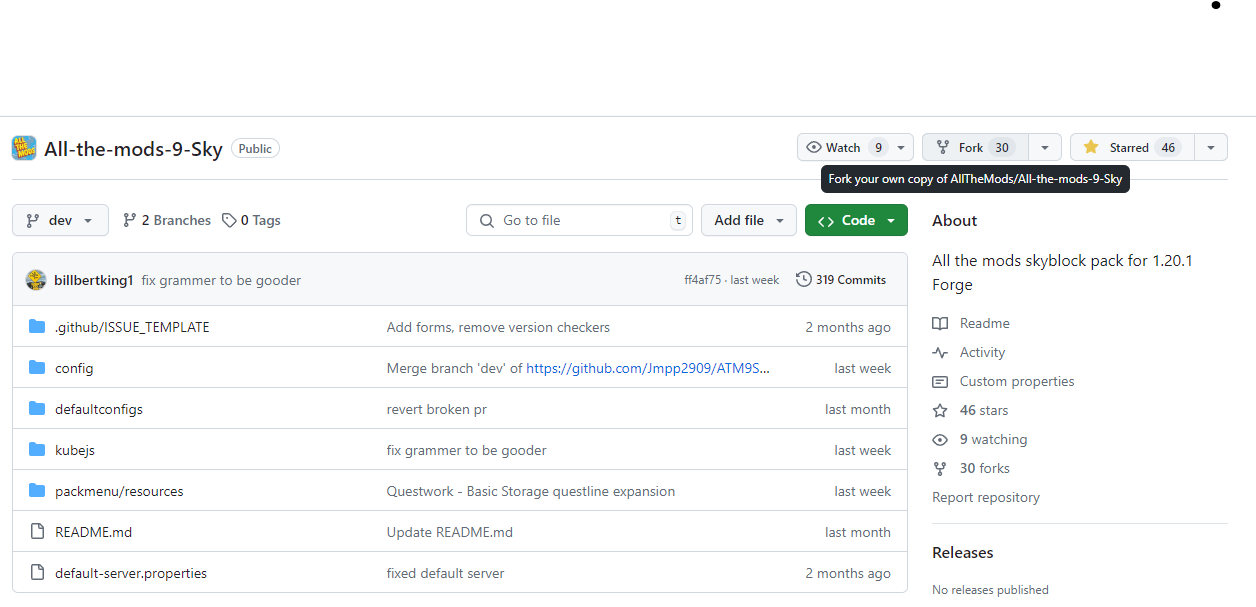
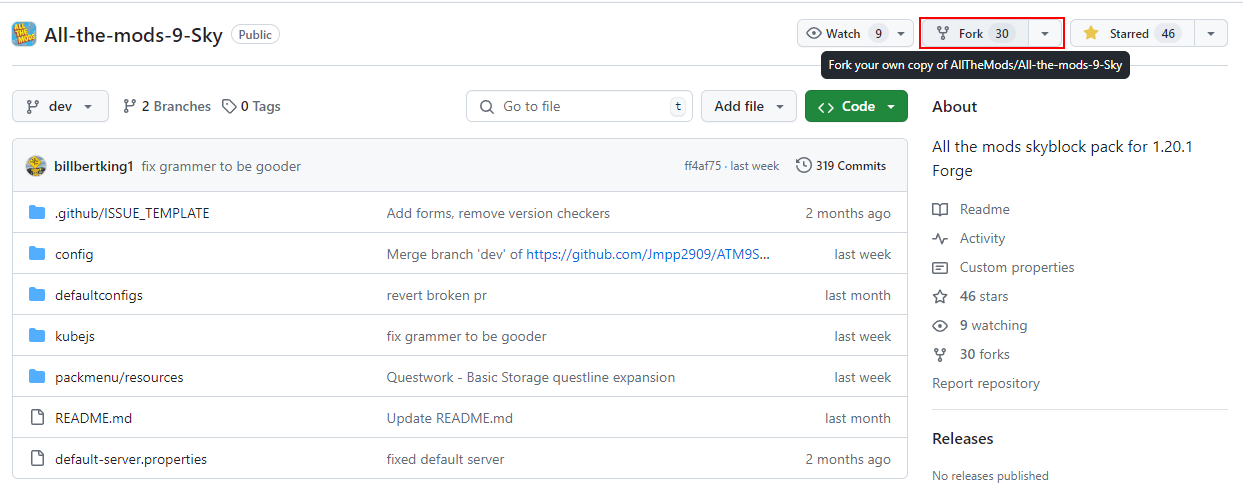
Update translation.md
- Added final images to translation guide
- Added list of translators
- Rewrote a few lines for clarity
- Removed GitCL instructions to clean the page up. Anyone using GitCL likely knows how to use it anyway

diff --git a/docs/guides/translations.md b/docs/guides/translations.md
@@ -6,6 +6,9 @@ authors:
 
 # All The Translations
 
+???+ warning "FTB Quests 1.21+"
+	Translating lang files and previewing them all while in-game is now possible. I may or may not adjust this page to include that method, as it would require rearranging this guide.
+
 ## Important!
 
 There is ***no*** set or forced timeline for translations. *Work on them at your own pace!* PR them however you want, either as whole chapters, sections of chapters, or even the whole thing if you want. **We are incredibly grateful for any contributions you make!**
@@ -15,7 +18,7 @@ Also, tell a staff member that you'd like to translate so they can give you acce
 ???+ warning "Important note for packs in development"
 	If you are translating a pack that is under ***active development***, then you need to use the lang file from the **`dev` branch**, not `main`. The `dev` branch will always contain the most up-to-date quest lang file that you will translate.
 
-???+ danger "Note regarding AI/Machine translations"
+???+ danger "Warning regarding AI/Machine translations"
 	We are **not** looking for AI/Machine translations.  We are looking for native speakers who are looking to put in the effort to make sure grammar is correct for readers of that language. We would've done it ourselves if we wanted a cheap attempt at quest translations.
 
 ---
@@ -38,14 +41,22 @@ This guide will take you in chronological order from forking a repo, to committi
 
 ### Fork the Repository
 
-Fork the modpack/mod you want to translate. 
+Fork the modpack/mod you want to translate. Make sure `Copy the main branch only` is checked.
 
+The links should take you directly to the `Create a new fork` page.
+
+<!--- Add/deprecate items on this list as future modpacks release --->
+
+- [ATM10 (Alpha)](https://github.com/AllTheMods/ATM-10/fork)
 - [ATM9/No Frills (NF's quests are the same as 9, just no Greg)](https://github.com/AllTheMods/ATM-9/fork)
 - [ATM9 to the Sky](https://github.com/AllTheMods/All-the-mods-9-Sky/fork)
 - [Gravitas 1](https://github.com/AllTheMods/tfc/fork)
 - [Gravitas 2](https://github.com/AllTheMods/Gravitas2/fork)
 
 [All The Mods GitHub](https://github.com/AllTheMods) for any modpack that isn't listed above.
+
+![Click "Fork" and then it'll take you the page in the 2nd image](img/translationFork1.png)
+![Remember to use the dev branch if you are translating a modpack under active development](img/translationFork2.png)
 
 ---
 
@@ -54,15 +65,14 @@ Fork the modpack/mod you want to translate.
 This will **Clone** your fork from GitHub onto your computer.
 
 ???+ information "GitHub Desktop"
-	Go to `File` -> `Clone repository...` OR do `Ctrl+Shift+o` and select your ATM Modpack fork.
+	Go to `File` -> `Clone repository...` OR `Ctrl+Shift+o`, select your ATM Modpack fork, the select `To contribute to the parent project`.
 
 	!!! info "I recommend putting the repository under `C:/Users/yourPCName` for easy access"
-
-??? information "Git CLI"
-	``` title="Change `USERNAME` to your GitHub name and `MODPACK` to the name of your fork"
-	git clone https://github.com/USERNAME/MODPACK
 	
-	```
+	![Click "File" then "Clone repository...".](img/translationCloneBranch1.png)
+	![Select the repo you just forked and set the location to want the repo to save to.](img/translationCloneBranch2.png)
+	![Select "To contribute to the parent project" and continue.](img/translationCloneBranch3.png)
+
 ---
 
 After cloning the repository go to where you cloned it on your computer and go to `packName/kubejs/assets/kubejs/lang` then copy and paste the `en_us.json` file into the same spot.
@@ -74,9 +84,9 @@ Rename the copied `en_us.json` to the language code of the lanuage you want to t
 ??? abstract "Language Codes (Ctrl+F to find language)"
 	| Code | Language |
 	|----- | -------- |
-	|af_ZA | Afrikaans (South Africa) | 
-	|ar_AE | Arabic (U.A.E.) | 
-	|ar_BH | Arabic (Bahrain) | 
+	| af_ZA | Afrikaans (South Africa) | 
+	| ar_AE | Arabic (U.A.E.) | 
+	| ar_BH | Arabic (Bahrain) | 
 	| ar_DZ | Arabic (Algeria) | 
 	| ar_EG | Arabic (Egypt) | 
 	| ar_IQ | Arabic (Iraq) | 
@@ -243,12 +253,15 @@ Instead of copying the entire repo onto your computer, you can also download onl
 
 Download the `en_us.json` lang file from the respective pack, the links below are the most up-to-date files the translations are to be based off of.
 
+- [ATM10 (Alpha)](https://github.com/AllTheMods/ATM-10/blob/questtest/config/ftbquests/quests/lang/en_us.snbt)
 - [ATM9/No Frills](https://github.com/AllTheMods/ATM-9/blob/main/kubejs/assets/kubejs/lang/en_us.json)
 - [ATM9 to the Sky](https://github.com/AllTheMods/All-the-mods-9-Sky/blob/dev/kubejs/assets/kubejs/lang/en_us.json)
 - [Gravitas 1](https://github.com/AllTheMods/tfc/blob/main/kubejs/assets/kubejs/lang/en_us.json)
 - [Gravitas 2](https://github.com/AllTheMods/Gravitas2/blob/main/kubejs/assets/gravitas/lang/en_us.json)
 
-For all other packs, the lang file will be under `packName/kubejs/assets/kubejs/lang/en_us.json` in their [respective repositories](https://github.com/AllTheMods).
+???+ note "Note"
+	- For 1.20.1 and before: The lang file will be under `packName/kubejs/assets/kubejs/lang/en_us.json`.
+	- For 1.21+: The lang file will be under `packName/config/ftbquests/quests/lang/en_us.snbt`.
 
 ???+ warning "Important"
 	As state in the beginning, if you are translating a pack that is in active development, then you need to use the same file path as above but for the **`dev` branch**.
@@ -285,34 +298,28 @@ Depending on current setup, you may have an editor (_Visual Studio Code_), that 
 	1. Fill out the **`Summary`** and **`Description`** on the bottom left
 	2. Click **`Commit to main`** when you're ready to commit.
 	
-	If you made a mistake, you can undo the commit in the bottom left. Otherwise click **`Push origin`** to push the commit to GitHub.
+	If you made a mistake, you can **undo** the commit in the *bottom left*. Otherwise click **`Push origin`** to push the commit to GitHub.
+	
+	![](img/translationCommit1.png)
+	![You can undo your commit if you changed your mind. If all is good then you can push to origin.](img/translationCommit2.png)
 
-???+ Information "If you downloaded just the lang file"
+???+ Information "Making a commit if you downloaded just the lang file"
 	1. Go to your repository on the website and go to same spot you downloaded the `en_us.json` lang file from.
 	2. Click **`Add file`** in the top right and click **`Upload files`**
-	3. Upload your translated lang file and click **`Commit changes`**
-
-??? Information "Making a commit with Git"
-    Add files to Commit.
-    ```
-    git commit .
-    ```
-
-    Add a message to your Commit. We recommend being more descriptive about your Commit(s).
-    ```
-    git commit -m "update"
-    ```
-
-    Push changes
-    ```
-    git push
-    ```
+	3. Upload your translated lang file, fill out the description of changes you made, and click **`Commit changes`**
+	
+	![](img/translationFileCommit1.png)
+	![](img/translationFileCommit2.png)
 
 ---
 
 ## Pull Request
 
+After pushing to origin, there should be a yellow banner on the main repository that says `main had recent pushes X seconds ago`. Click `Compare & pull request`.
+
 When submitting a PR (Pull Request), you're requesting us to **Pull** translations from your Repository (Fork) to be approve & merged into the official pack. This is done in browser by going to the modpack's repository and creating a PR from your `main` branch to ours.
+
+![](img/translationPR1.png)
 
 ---
 
@@ -340,13 +347,31 @@ Most of everything you need to know is explained in this guide, however if you h
 
 - [ToshibaMicrowave's FTBQuests Tutorials](https://www.youtube.com/playlist?list=PLi-eopKJxIIg1K3sAlxwHLwFixLE20ezZ)
 	- This playlist contains short tutorials covering [FTB Quests](https://legacy.curseforge.com/minecraft/mc-mods/ftb-quests-forge)
-- [List of Translators](https://discord.com/channels/254530689225981953/1240295487509368872/1251896531544571945)
-	- List of languages and their translators. You need access to the **#translation-department** to view the [Discord](https://discord.com/invite/allthemods) message.
 - [List of Language Codes](http://www.lingoes.net/en/translator/langcode.htm)
 	- Browser may give you a warning since the site is in `http` and not `https`.
 - [Minecraft Formatting Codes](https://minecraft.wiki/w/Formatting_codes)
 	- Instead of using `§`, you will use `&` for all color codes within the quests.
 
 ---
+
+## List of Translators
+
+| Language | Translators |
+| -------- | ----------- |
+| **:flag_ae: Arabic** | amro |
+| **:flag_nl: Dutch** | Riley |
+| **:flag_ph: Filipino (Philippines)** | CptZ |
+| **:flag_fr: French** | Luny, Galahad |
+| **:flag_de: German** | ffup , Torben, Riaru, Satherov (AE2 Supremacy) |
+| **:flag_it: Italian** | elfo |
+| **:flag_jp: Japanese** | ll1 (flll) |
+| **:flag_kr: Korean** | JJYong |
+| **:flag_no: Norwegian (Bokmål)** | Permest, A group of amish goat milkers |
+| **:flag_pl: Polish** | Observer, Miko_boi, lena |
+| **:flag_pt: Portugese** | oRuiva |
+| **:flag_ro: Romanian** | KGR |
+| **:flag_ru: Russian** | Slava_vas, Depozit, Gordry(Миша) |
+| **:flag_es: Spanish** | RadzRatz, TenCross, Arivio, Daboruu, Metabodiru |
+*Last updated 7/31/24*
 
 > All The Mods | [GitHub](https://github.com/AllTheMods) | [Discord](https://discord.com/invite/allthemods)
